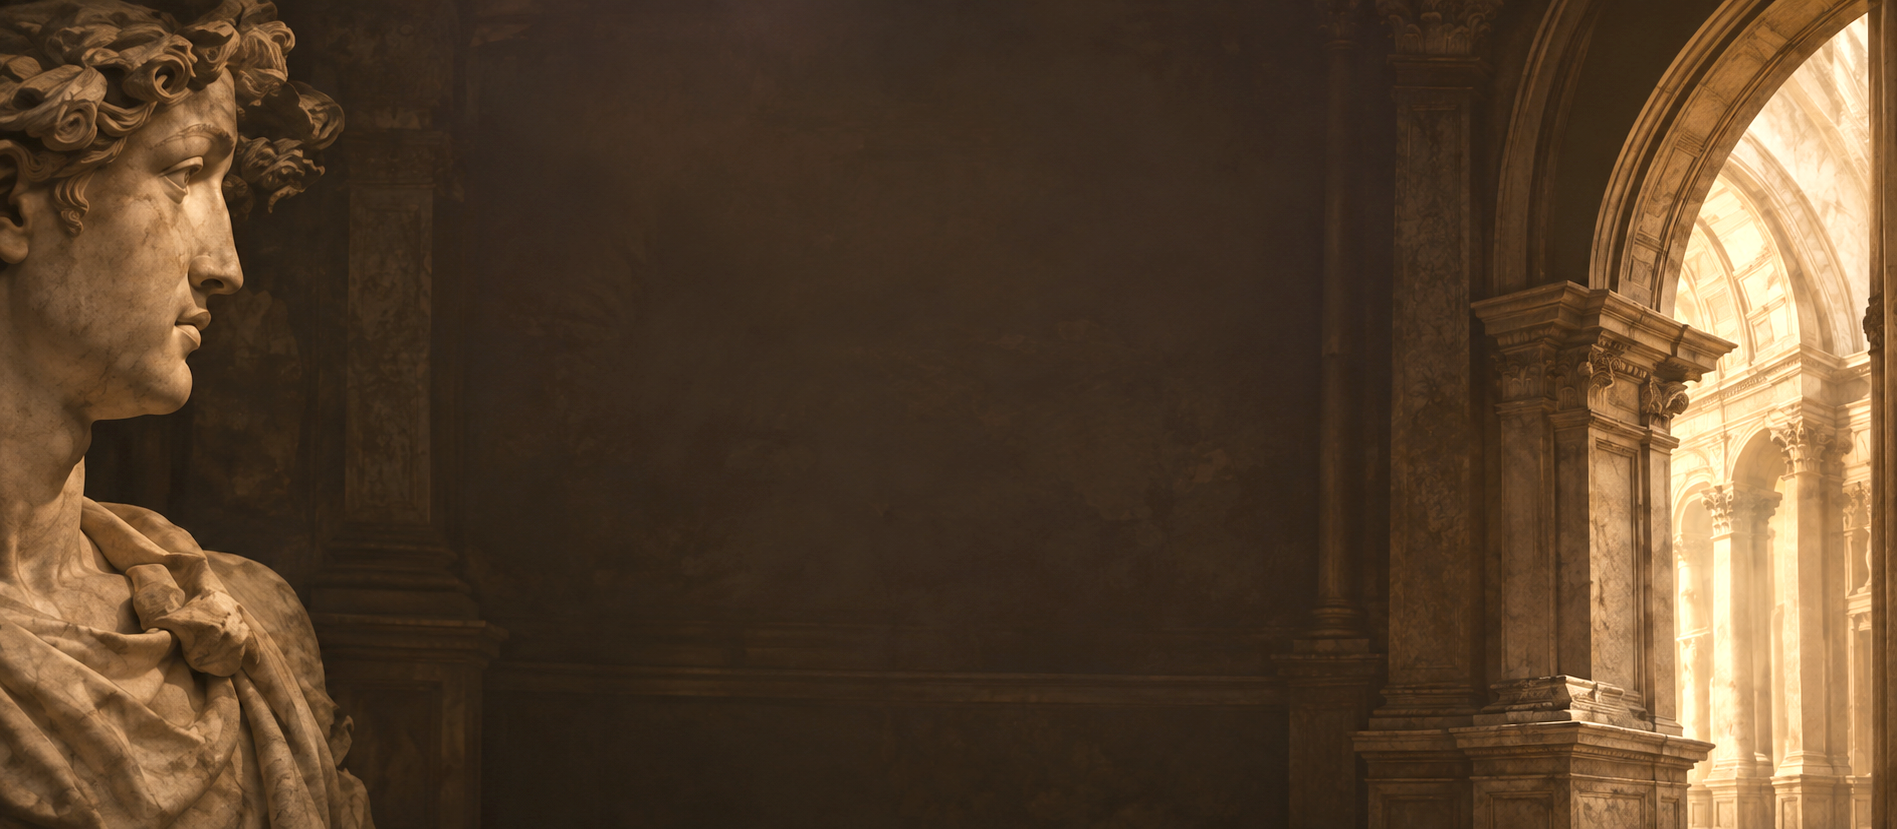
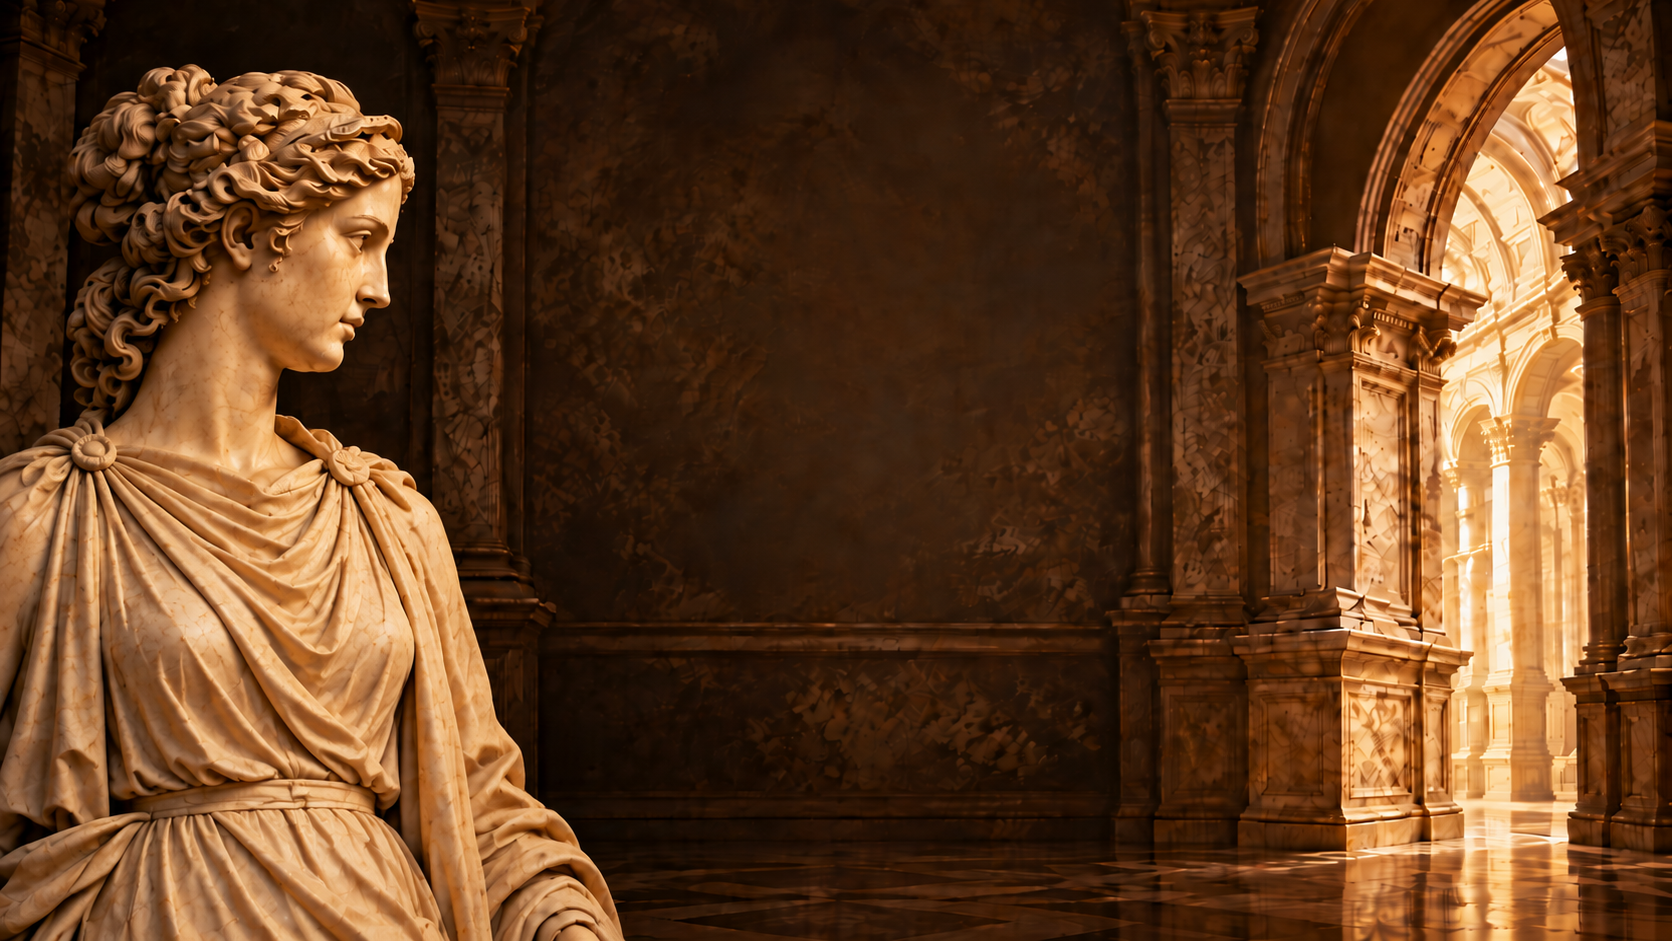
Novo fundo da abertura, título responsivo e Antes e Depois para celular
Claude-Session: https://claude.ai/code/session_018ckGgeLrJeXv2UHJFd83h8

diff --git a/src/app/globals.css b/src/app/globals.css
@@ -49,7 +49,7 @@ button {
   isolation: isolate;
   overflow: hidden;
   background-image: url("/images/hero-desktop.png");
-  background-position: 37% center;
+  background-position: center center;
   background-repeat: no-repeat;
   background-size: cover;
 }
@@ -119,7 +119,8 @@ button {
   display: flex;
   align-items: center;
   gap: 2.2rem;
-  color: rgba(196, 181, 149, 0.85);
+  color: rgba(226, 212, 180, 0.95);
+  text-shadow: 0 1px 0.5rem rgba(20, 10, 4, 0.75);
   font-family: var(--font-cinzel), Georgia, serif;
   font-size: 0.85rem;
   font-weight: 500;
@@ -155,7 +156,7 @@ button {
   justify-content: center;
   width: min(70rem, calc(100% - 2rem));
   margin: 0 auto;
-  padding-bottom: 4.8rem;
+  padding-bottom: 6.4rem;
   text-align: center;
 }
 
@@ -166,7 +167,7 @@ button {
   margin: 0;
   color: var(--parchment);
   font-family: var(--font-cinzel), Georgia, serif;
-  font-size: clamp(2.6rem, 4.6vw, 5rem);
+  font-size: clamp(2rem, min(calc(max(100vw, 177.78vh) * 0.029), 6.6vw), 5.2rem);
   font-weight: 400;
   line-height: 1.18;
   letter-spacing: 0;
@@ -389,89 +390,156 @@ button {
   line-height: 1;
 }
 
+.comparison-table {
+  display: none;
+}
+
 @media (max-width: 760px) {
   .transformation-section {
     aspect-ratio: auto;
-    min-height: 46rem;
-    background: #ecdcbc url("/images/transformation-bg-mobile.png") center top / cover no-repeat;
+    min-height: 0;
+    background:
+      radial-gradient(ellipse at 50% 0%, rgba(255, 250, 238, 0.85), transparent 70%),
+      linear-gradient(180deg, #f3e9d3, #ebdcbc);
+    border-top: 1px solid rgba(201, 166, 90, 0.5);
   }
 
   .transformation-content {
     width: auto;
-    max-width: 22rem;
-    margin: 0 1rem 0 auto;
-    padding: 13.5rem 0 3rem;
-    margin-left: max(5rem, calc(100% - 22rem - 1rem));
+    max-width: 28rem;
+    margin: 0 auto;
+    padding: 3.2rem 1.25rem 3.6rem;
   }
 
   .section-kicker {
-    gap: 0.6rem;
-    font-size: 0.62rem;
-  }
-
-  .section-kicker {
-    letter-spacing: 0.16em;
+    gap: 0.7rem;
+    font-size: 0.64rem;
+    letter-spacing: 0.2em;
   }
 
   .section-kicker::before,
   .section-kicker::after {
-    display: none;
+    width: 1.6rem;
   }
 
   .transformation-title {
-    flex-wrap: wrap;
-    gap: 0.4rem;
-    margin-top: 0.7rem;
-    font-size: 2.15rem;
+    gap: 0.5rem;
+    margin-top: 0.9rem;
+    font-size: clamp(2rem, 9.6vw, 2.7rem);
   }
 
   .transformation-grid {
-    grid-template-columns: 1fr;
-    gap: 0.5rem;
-    margin-top: 1rem;
+    display: none;
   }
 
-  .comparison-list {
-    padding: 0.9rem 1.1rem 1rem;
-    border-radius: 0.9rem;
-    background: rgba(255, 250, 238, 0.62);
+  .comparison-table {
+    display: block;
+    margin-top: 1.8rem;
+    overflow: hidden;
+    border: 1px solid rgba(168, 116, 44, 0.45);
+    border-radius: 1rem;
+    background: rgba(255, 252, 244, 0.7);
+    box-shadow: 0 0.9rem 2rem rgba(74, 52, 28, 0.12);
+    font-family: var(--font-figtree), "Segoe UI", sans-serif;
   }
 
-  .comparison-list h3 {
-    gap: 0.7rem;
-    margin-bottom: 0.6rem;
-    font-size: 0.9rem;
+  .pair-row {
+    display: grid;
+    grid-template-columns: minmax(0, 1fr) 1.6rem minmax(0, 1fr);
+    align-items: center;
+    border-top: 1px solid rgba(168, 116, 44, 0.22);
   }
 
-  .comparison-list ul {
-    gap: 0.5rem;
+  .pair-row:first-child {
+    border-top: 0;
   }
 
-  .comparison-list li {
-    grid-template-columns: 1rem minmax(0, 1fr);
-    gap: 0.6rem;
-    font-size: 0.82rem;
+  .pair-cell {
+    display: flex;
+    align-items: center;
+    gap: 0.55rem;
+    min-height: 3.5rem;
+    padding: 0.7rem 0.85rem;
+    color: #2a1f18;
+    font-size: 0.84rem;
+    line-height: 1.25;
+    text-align: left;
   }
 
-  .status-icon {
+  .pair-cell.before {
+    padding-right: 0.3rem;
+  }
+
+  .pair-cell.after {
+    padding-left: 0.3rem;
+  }
+
+  .pair-head .pair-cell {
+    min-height: 0;
+    padding-block: 0.8rem;
+    font-size: 0.8rem;
+    font-weight: 700;
+    letter-spacing: 0.12em;
+    text-transform: uppercase;
+  }
+
+  .pair-head .pair-cell.before {
+    padding-left: 0.85rem;
+    background: rgba(122, 31, 42, 0.07);
+    color: #7a1f2a;
+  }
+
+  .pair-head .pair-cell.after {
+    background: rgba(168, 116, 44, 0.12);
+    color: #8f5f1f;
+  }
+
+  .pair-gap {
+    display: flex;
+    justify-content: center;
+    color: #a8742c;
+    font-size: 0.95rem;
+  }
+
+  .pair-head .pair-gap {
+    align-self: stretch;
+    background: linear-gradient(90deg, rgba(122, 31, 42, 0.07), rgba(168, 116, 44, 0.12));
+  }
+
+  .pair-icon {
+    position: relative;
+    flex: none;
     width: 1rem;
-    border-width: 1px;
+    height: 1rem;
+    border: 1px solid currentColor;
+    border-radius: 50%;
   }
 
-  .status-icon::after {
+  .pair-icon::after {
+    position: absolute;
+    left: 50%;
+    top: 50%;
+    transform: translate(-50%, -52%);
+    font-family: Arial, sans-serif;
     font-size: 0.62rem;
+    line-height: 1;
   }
 
-  .comparison-list.before .status-icon::after {
+  .pair-cell.before .pair-icon {
+    color: #7a1f2a;
+  }
+
+  .pair-cell.after .pair-icon {
+    color: #a8742c;
+  }
+
+  .pair-cell.before .pair-icon::after {
+    content: "\2715";
     font-size: 0.5rem;
   }
 
-  .shift-mark {
-    padding-top: 0;
-    font-size: 1.3rem;
-    transform: rotate(90deg);
-    height: 1.6rem;
-    align-items: center;
+  .pair-cell.after .pair-icon::after {
+    content: "\2713";
   }
 }
 

diff --git a/src/components/TransformationSection.tsx b/src/components/TransformationSection.tsx
@@ -22,6 +22,31 @@ function ComparisonList({ title, tone, items }: ComparisonListProps) {
   );
 }
 
+function ComparisonTable() {
+  return (
+    <div className="comparison-table" role="table" aria-label="Comparativo antes e depois">
+      <div className="pair-row pair-head" role="row">
+        <span className="pair-cell before" role="columnheader">Antes</span>
+        <span className="pair-gap" aria-hidden="true" />
+        <span className="pair-cell after" role="columnheader">Depois</span>
+      </div>
+      {beforeItems.map((item, index) => (
+        <div className="pair-row" role="row" key={item}>
+          <span className="pair-cell before" role="cell">
+            <span aria-hidden="true" className="pair-icon" />
+            <span>{item}</span>
+          </span>
+          <span className="pair-gap" aria-hidden="true">→</span>
+          <span className="pair-cell after" role="cell">
+            <span aria-hidden="true" className="pair-icon" />
+            <span>{afterItems[index]}</span>
+          </span>
+        </div>
+      ))}
+    </div>
+  );
+}
+
 export function TransformationSection() {
   return (
     <section className="transformation-section" aria-labelledby="transformation-title">
@@ -33,6 +58,8 @@ export function TransformationSection() {
           <span className="title-and">E</span>
           <span className="title-after">DEPOIS</span>
         </h2>
+
+        <ComparisonTable />
 
         <div className="transformation-grid" aria-label="Comparativo antes e depois">
           <ComparisonList title="Antes" tone="before" items={beforeItems} />
